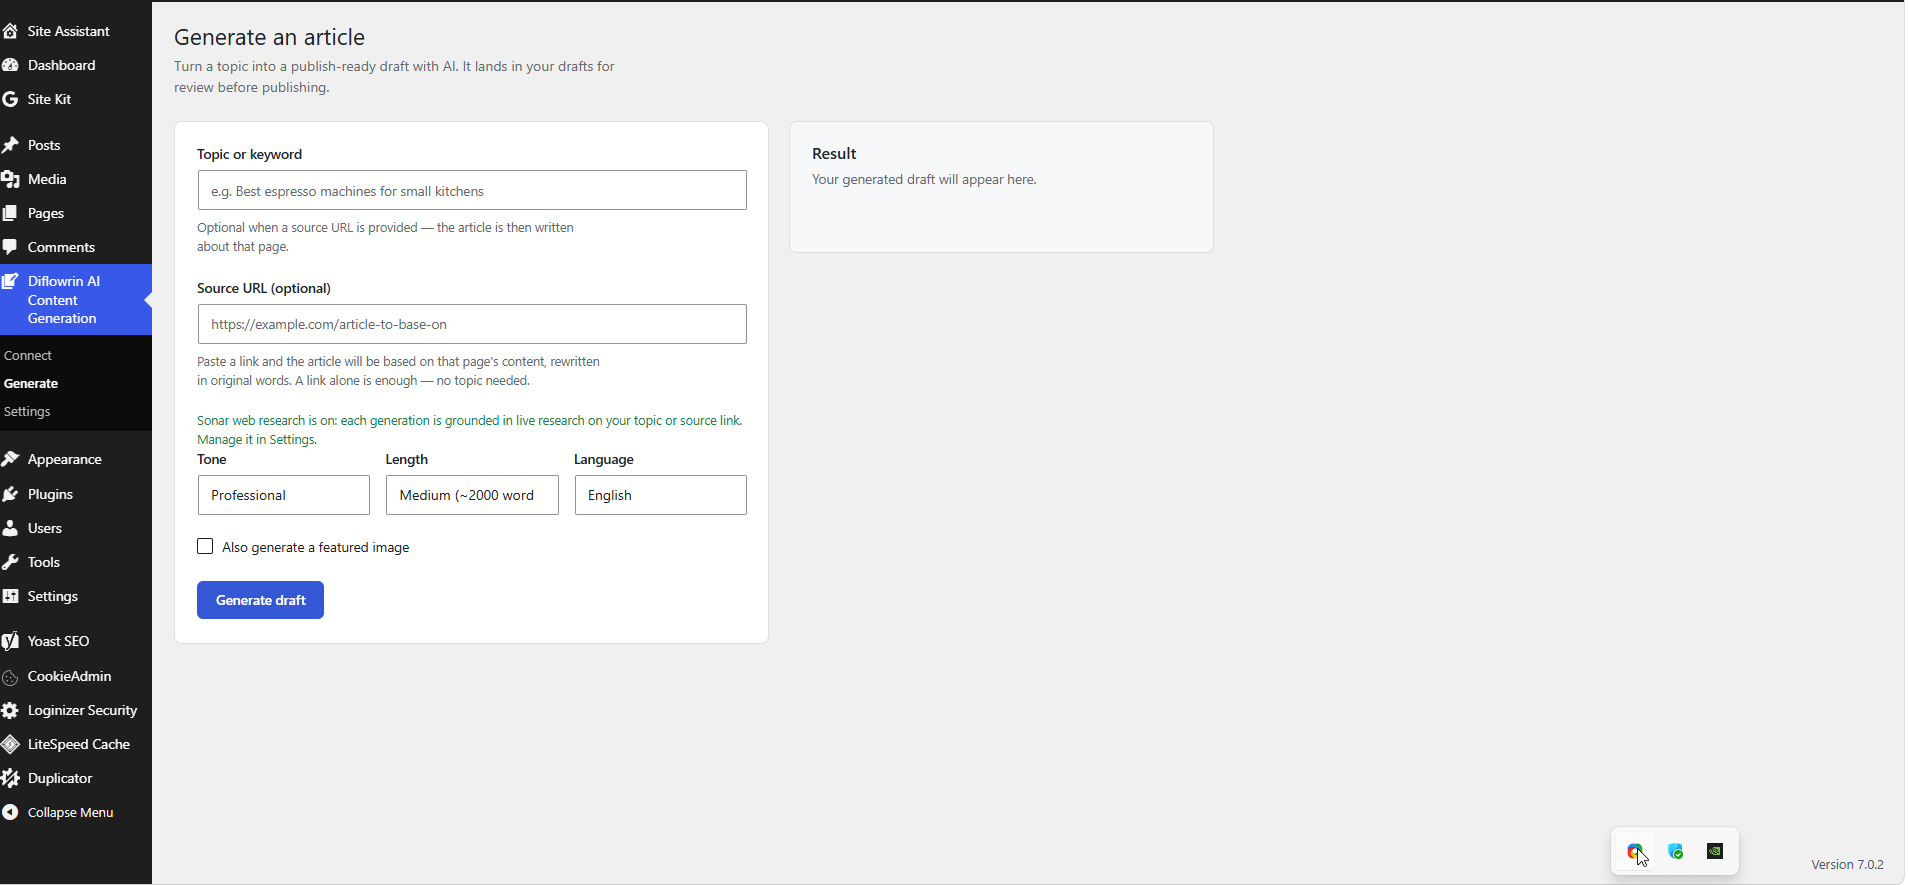
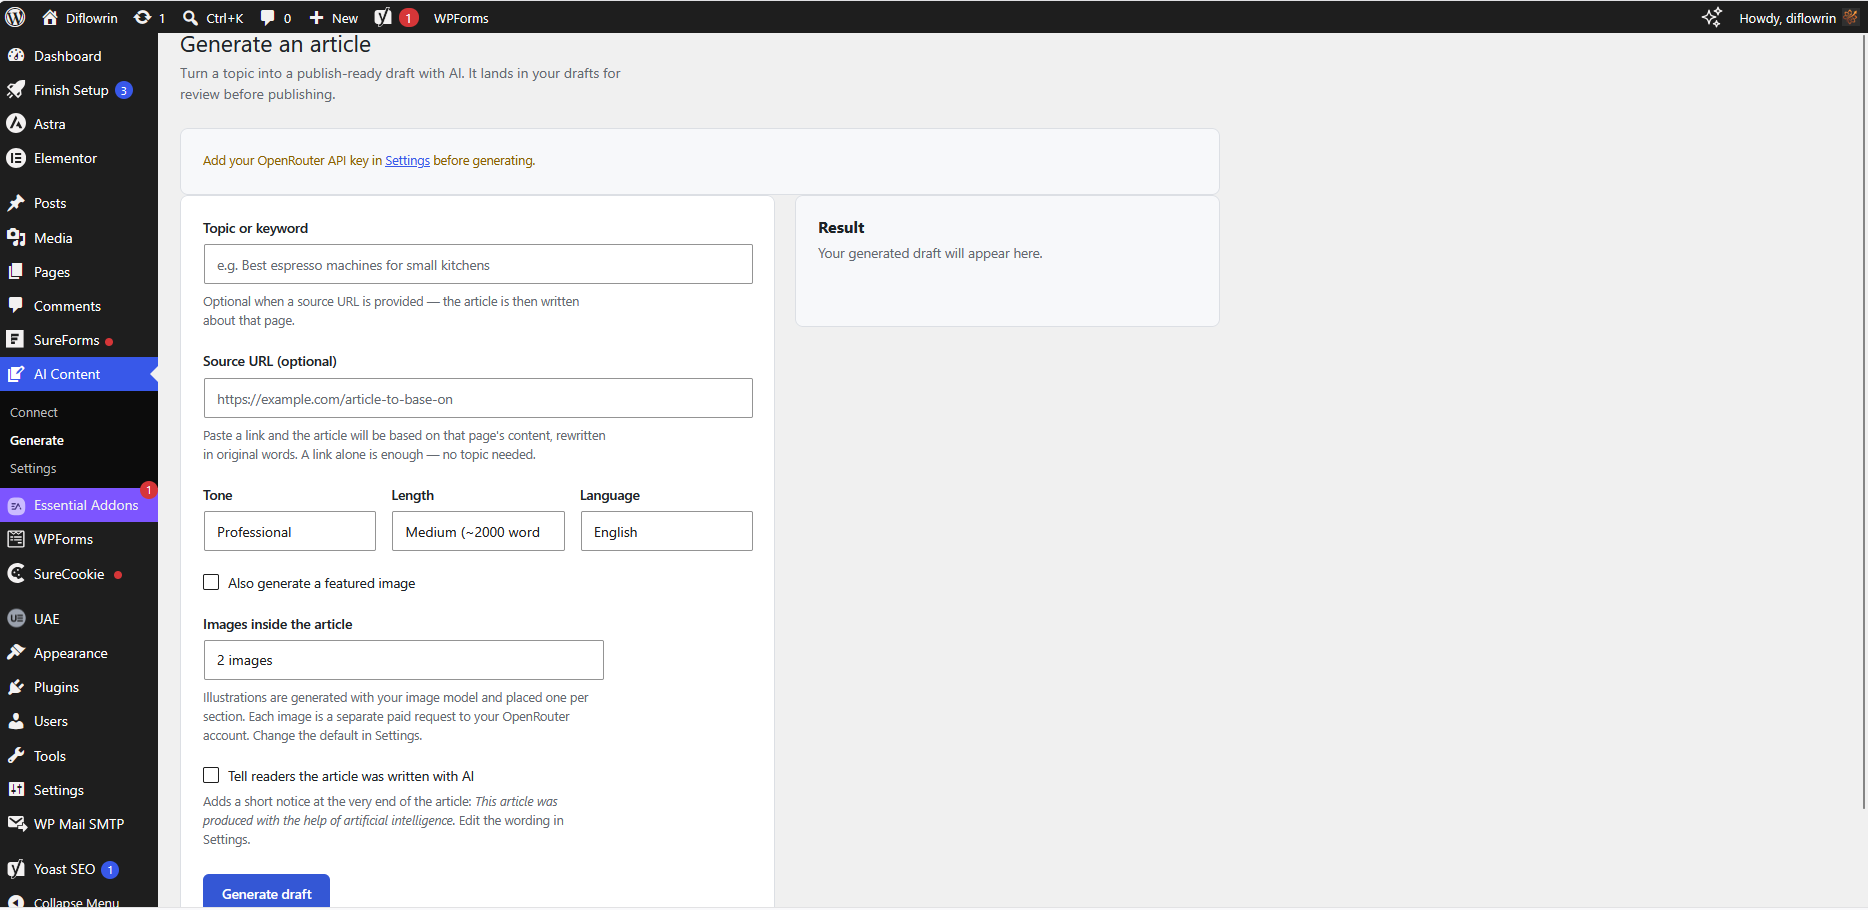
Add the release zip builder and the settings screenshots
The zip build script takes its file list from git ls-files minus
.distignore, so a hand build matches what the deploy workflow ships and
untracked scratch files cannot leak in. RELEASING.md records why
Compress-Archive must not be used for it. .distignore keeps bin/ out of
the release, since it builds the zip rather than travelling inside it.

The listing gains two screenshots of the Settings screen, so the images
cover configuration and not only generation.

diff --git a/RELEASING.md b/RELEASING.md
@@ -73,6 +73,44 @@ Updates reach users within roughly 15 minutes, once WordPress.org re-reads `Stab
 - **Only plugin code belongs here.** The SEO Content Architect desktop app is a separate, closed
   product; nothing from it should end up in this repository.
 
+## Building a zip by hand
+
+For testing an upload before tagging, or for handing someone a build directly:
+
+```
+powershell -ExecutionPolicy Bypass -File bin\build-plugin-zip.ps1
+```
+
+It takes the version from the plugin header, ships exactly the files `git ls-files` reports minus
+[`.distignore`](.distignore) — so it matches what the workflow deploys, and untracked local files
+cannot leak in — then verifies the finished archive and deletes it if anything is wrong.
+
+**Never build this zip with `Compress-Archive`.** Windows PowerShell 5.1 writes the entry names with
+backslashes, which the ZIP format forbids. WordPress then unpacks everything into one flat directory
+holding files literally named `includes\Admin\Admin.php`, so the plugin fatals on its first
+`require`. `[IO.Compression.ZipFile]::CreateFromDirectory` is broken the same way on .NET Framework.
+Both were verified broken on the development machine. Working alternatives, if the script is
+unavailable: `tar -a -c -f plugin.zip <dir>` (built into Windows), 7-Zip, `zip -r` under WSL, or
+`Compress-Archive` under PowerShell 7 — where the bug is fixed.
+
+Two structural rules the script also enforces, both previously hit:
+
+- **One root directory, not two.** WordPress only scans `plugins/*/*.php`, one level deep. An archive
+  with the slug nested inside itself puts the main file too deep and the plugin never appears in the
+  list at all — no error, just absent.
+- **No version in the root directory name.** WordPress installs into whatever directory name the zip
+  contains, so `diflowrin-ai-content-generation-1.2.0/` lands *beside* the existing
+  `diflowrin-ai-content-generation/` as a second copy of the plugin instead of updating it. The root
+  must always equal the text domain.
+
+The five-second check on any zip, whoever built it:
+
+```
+[IO.Compression.ZipFile]::OpenRead("plugin.zip").Entries | % FullName
+```
+
+Any `\` in the output means the archive is broken. So does more than one leading directory.
+
 ## If the automation is unavailable
 
 The manual route still works — a checkout lives outside this repository, at
